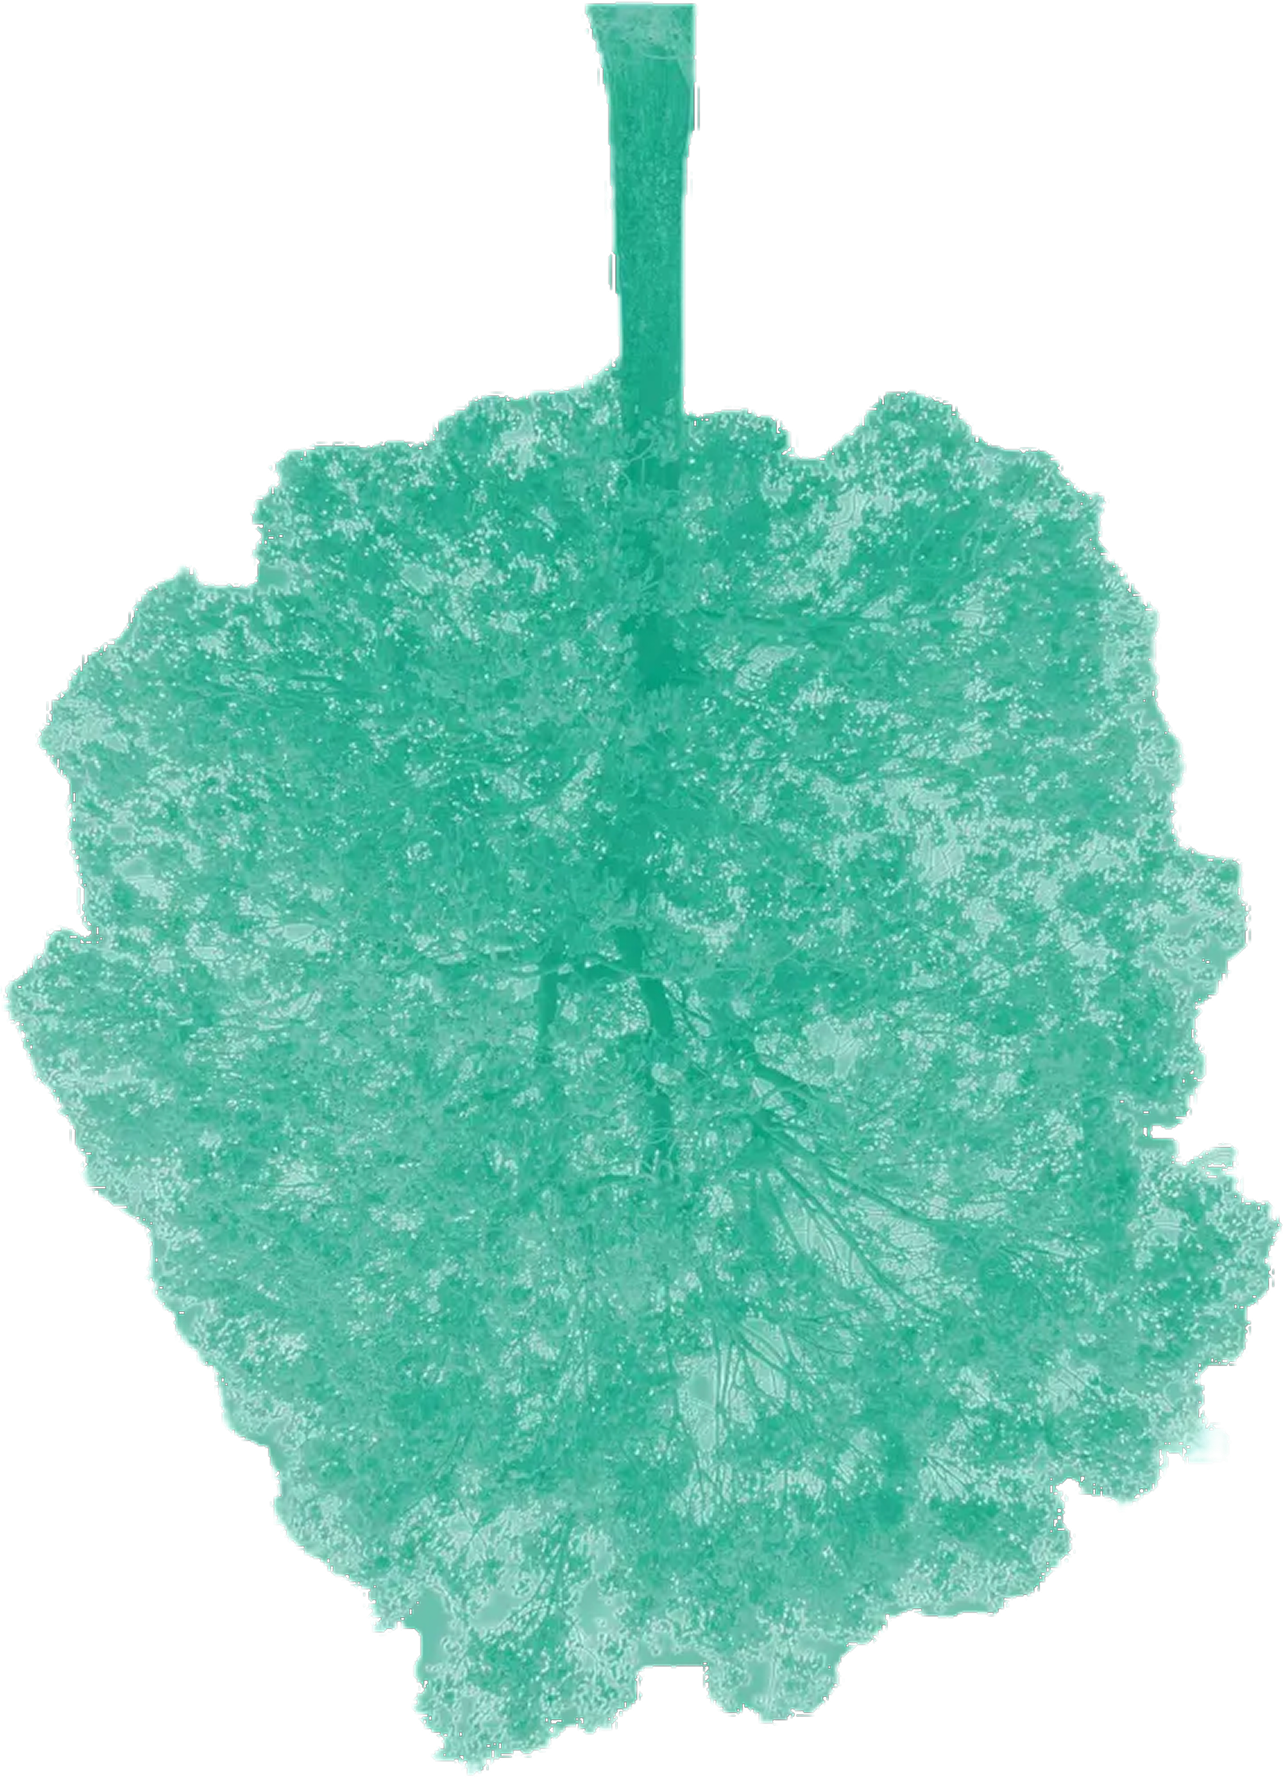
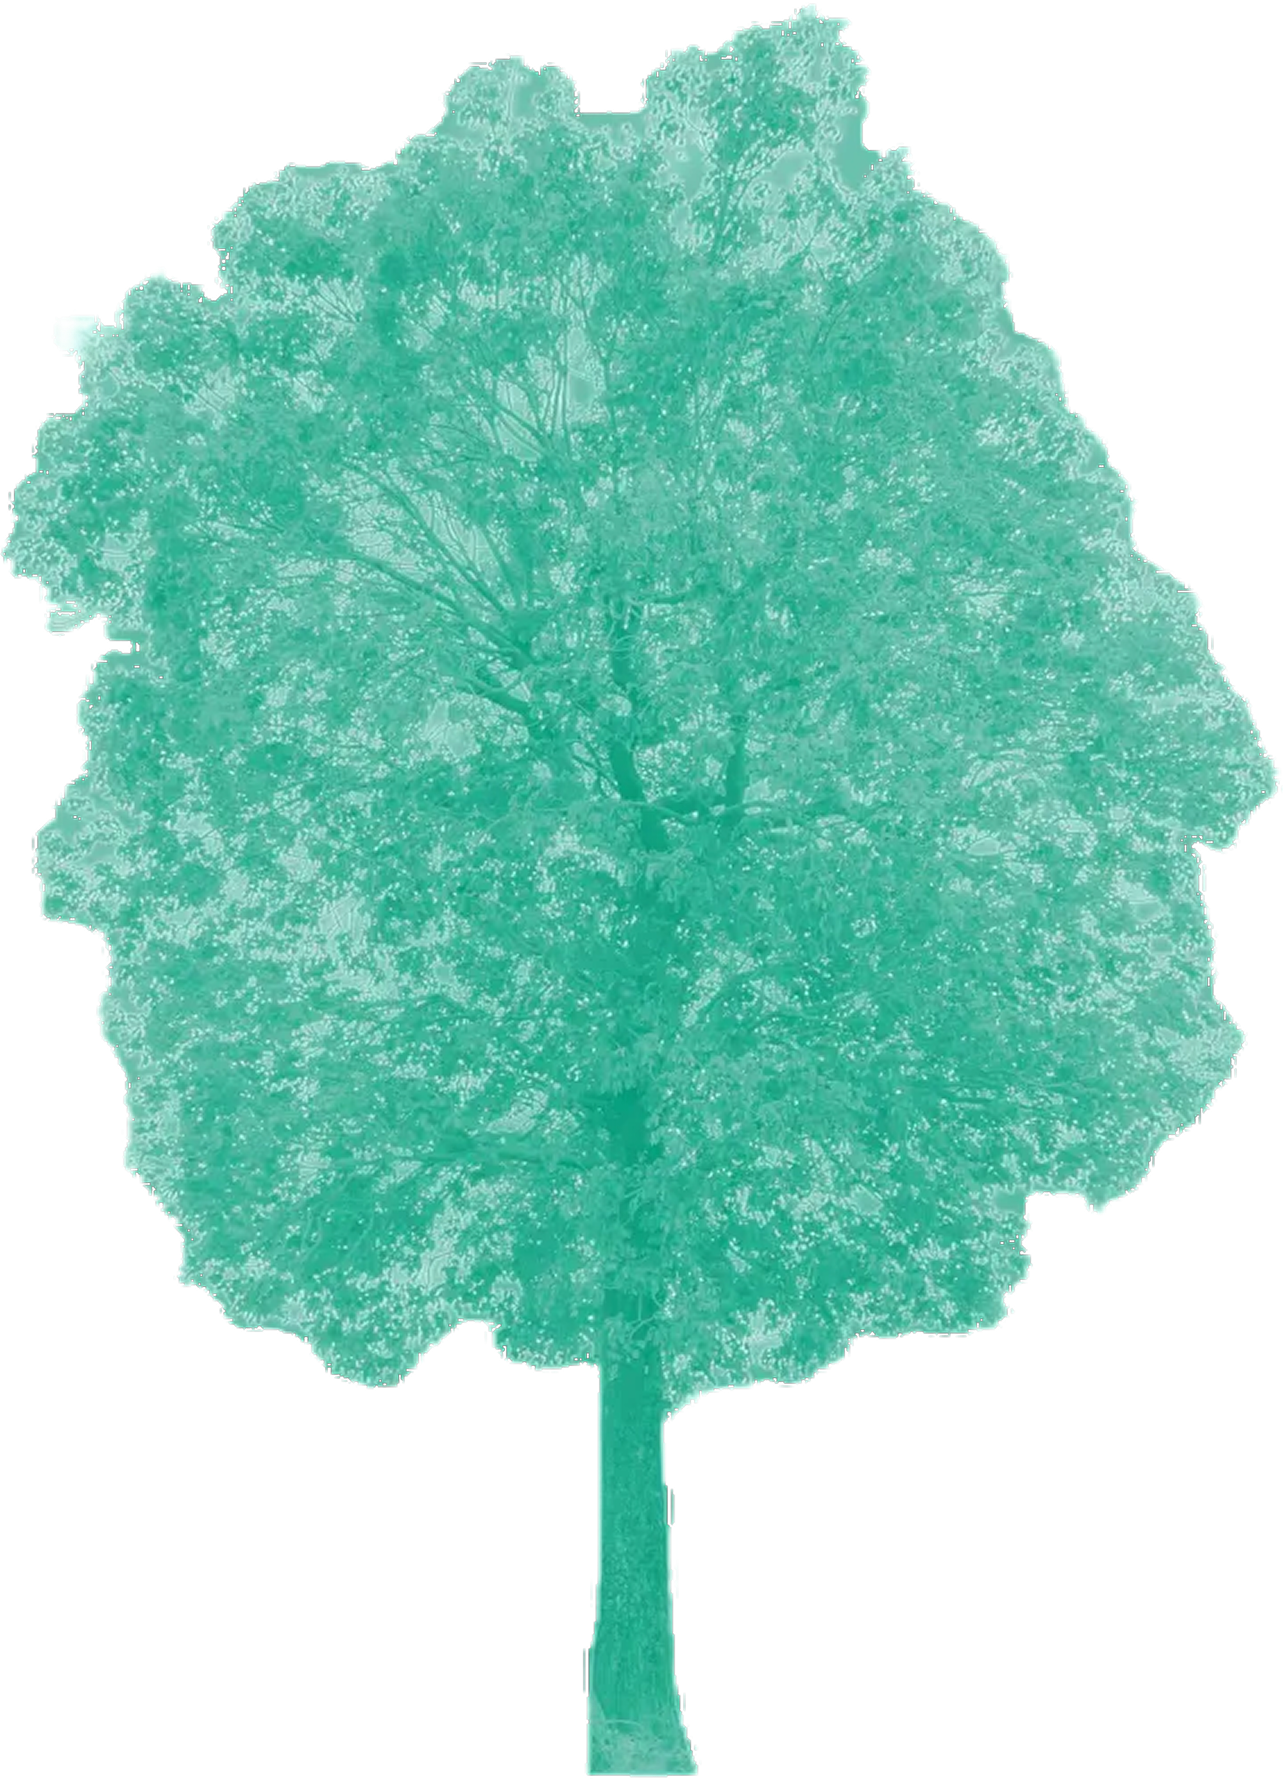
Changes Valentina

diff --git a/script.js b/script.js
@@ -230,11 +230,8 @@ document.querySelectorAll(".draggable").forEach((el) => {
 
       activateShield();
 
-      // Prevent scrolling/gesture while "dragging"
+      // Prevent scrolling/gesture while dragging on touch devices
       e.preventDefault();
-      try {
-        el.setPointerCapture(e.pointerId);
-      } catch (_) {}
     },
     { passive: false }
   );
@@ -244,14 +241,10 @@ document.querySelectorAll(".draggable").forEach((el) => {
     if (e.pointerId !== activePointerId) return;
     if (e.pointerType !== "touch" && e.pointerType !== "pen") return;
 
-    // No drop here because drop should happen on shield (like desktop)
+    // Cancel touch drag if the pointer ended back on the source element
     draggedType = null;
     activePointerId = null;
     deactivateShield();
-
-    try {
-      el.releasePointerCapture(e.pointerId);
-    } catch (_) {}
   };
 
   el.addEventListener("pointerup", endPointerFromSource);

diff --git a/style.css b/style.css
@@ -134,6 +134,10 @@ html, body {
 }
 
 .bubble {
+  pointer-events: auto;
+}
+
+.bubble {
   padding: 10px 14px;
   border-radius: 10px;
   font-size: 13px;